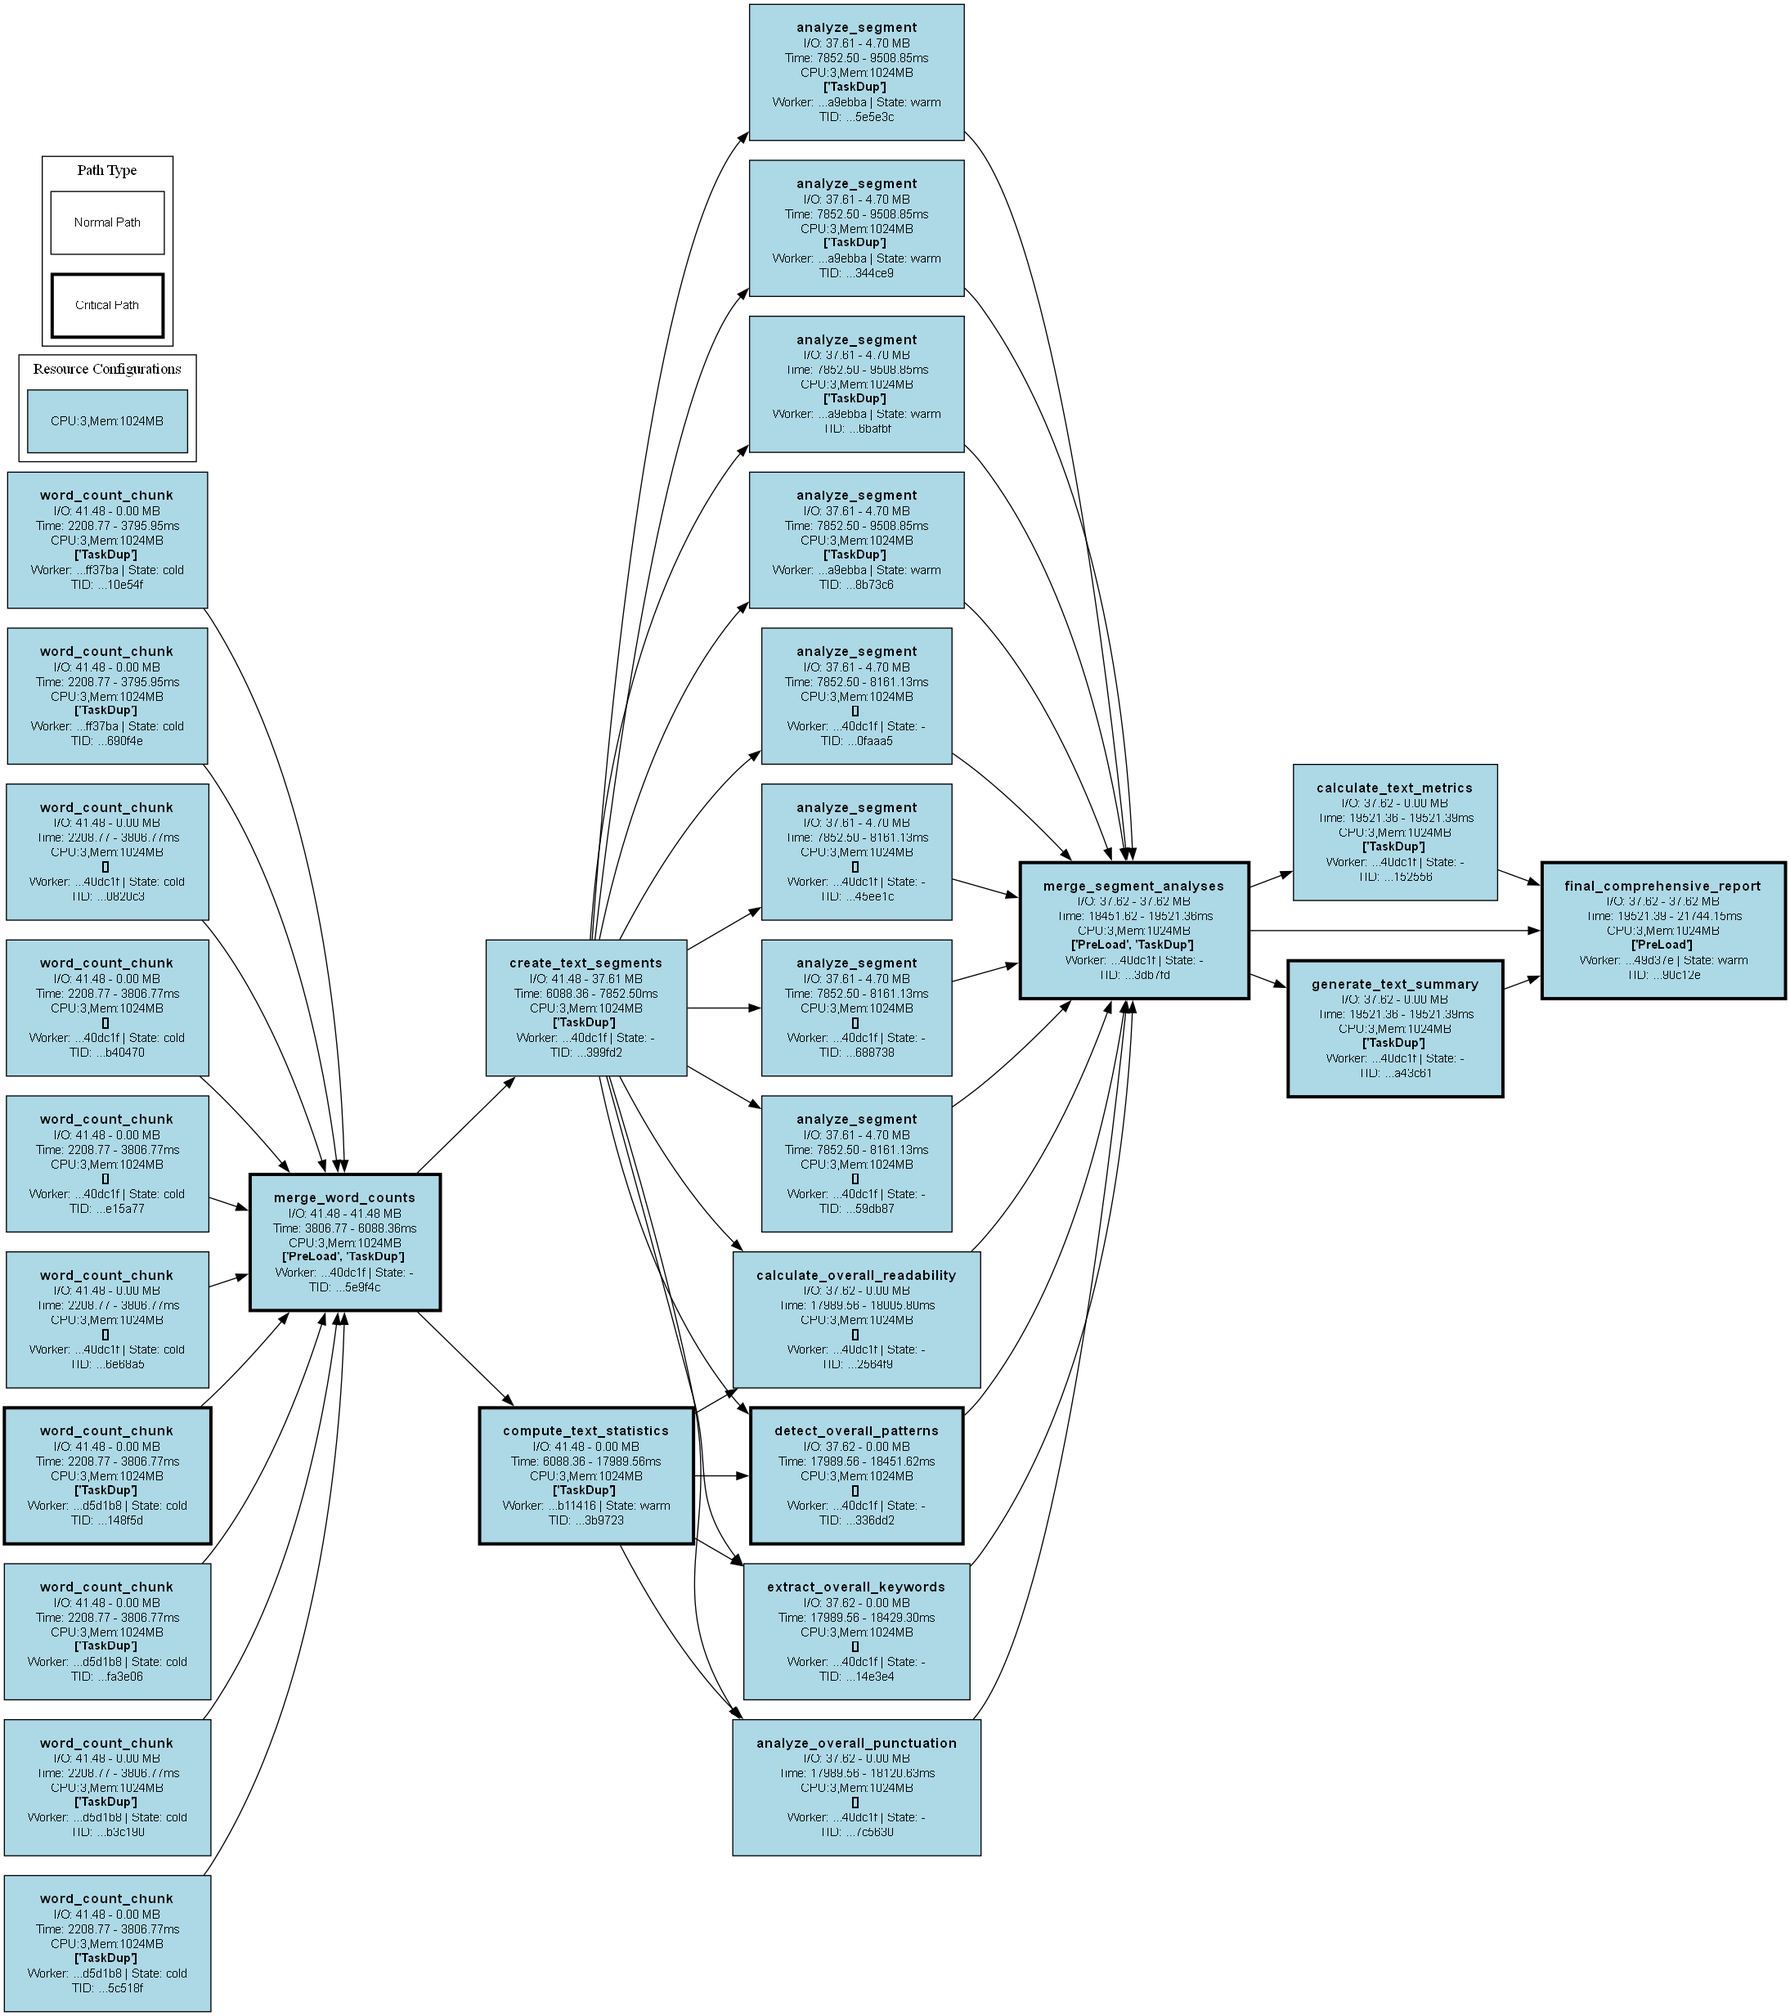
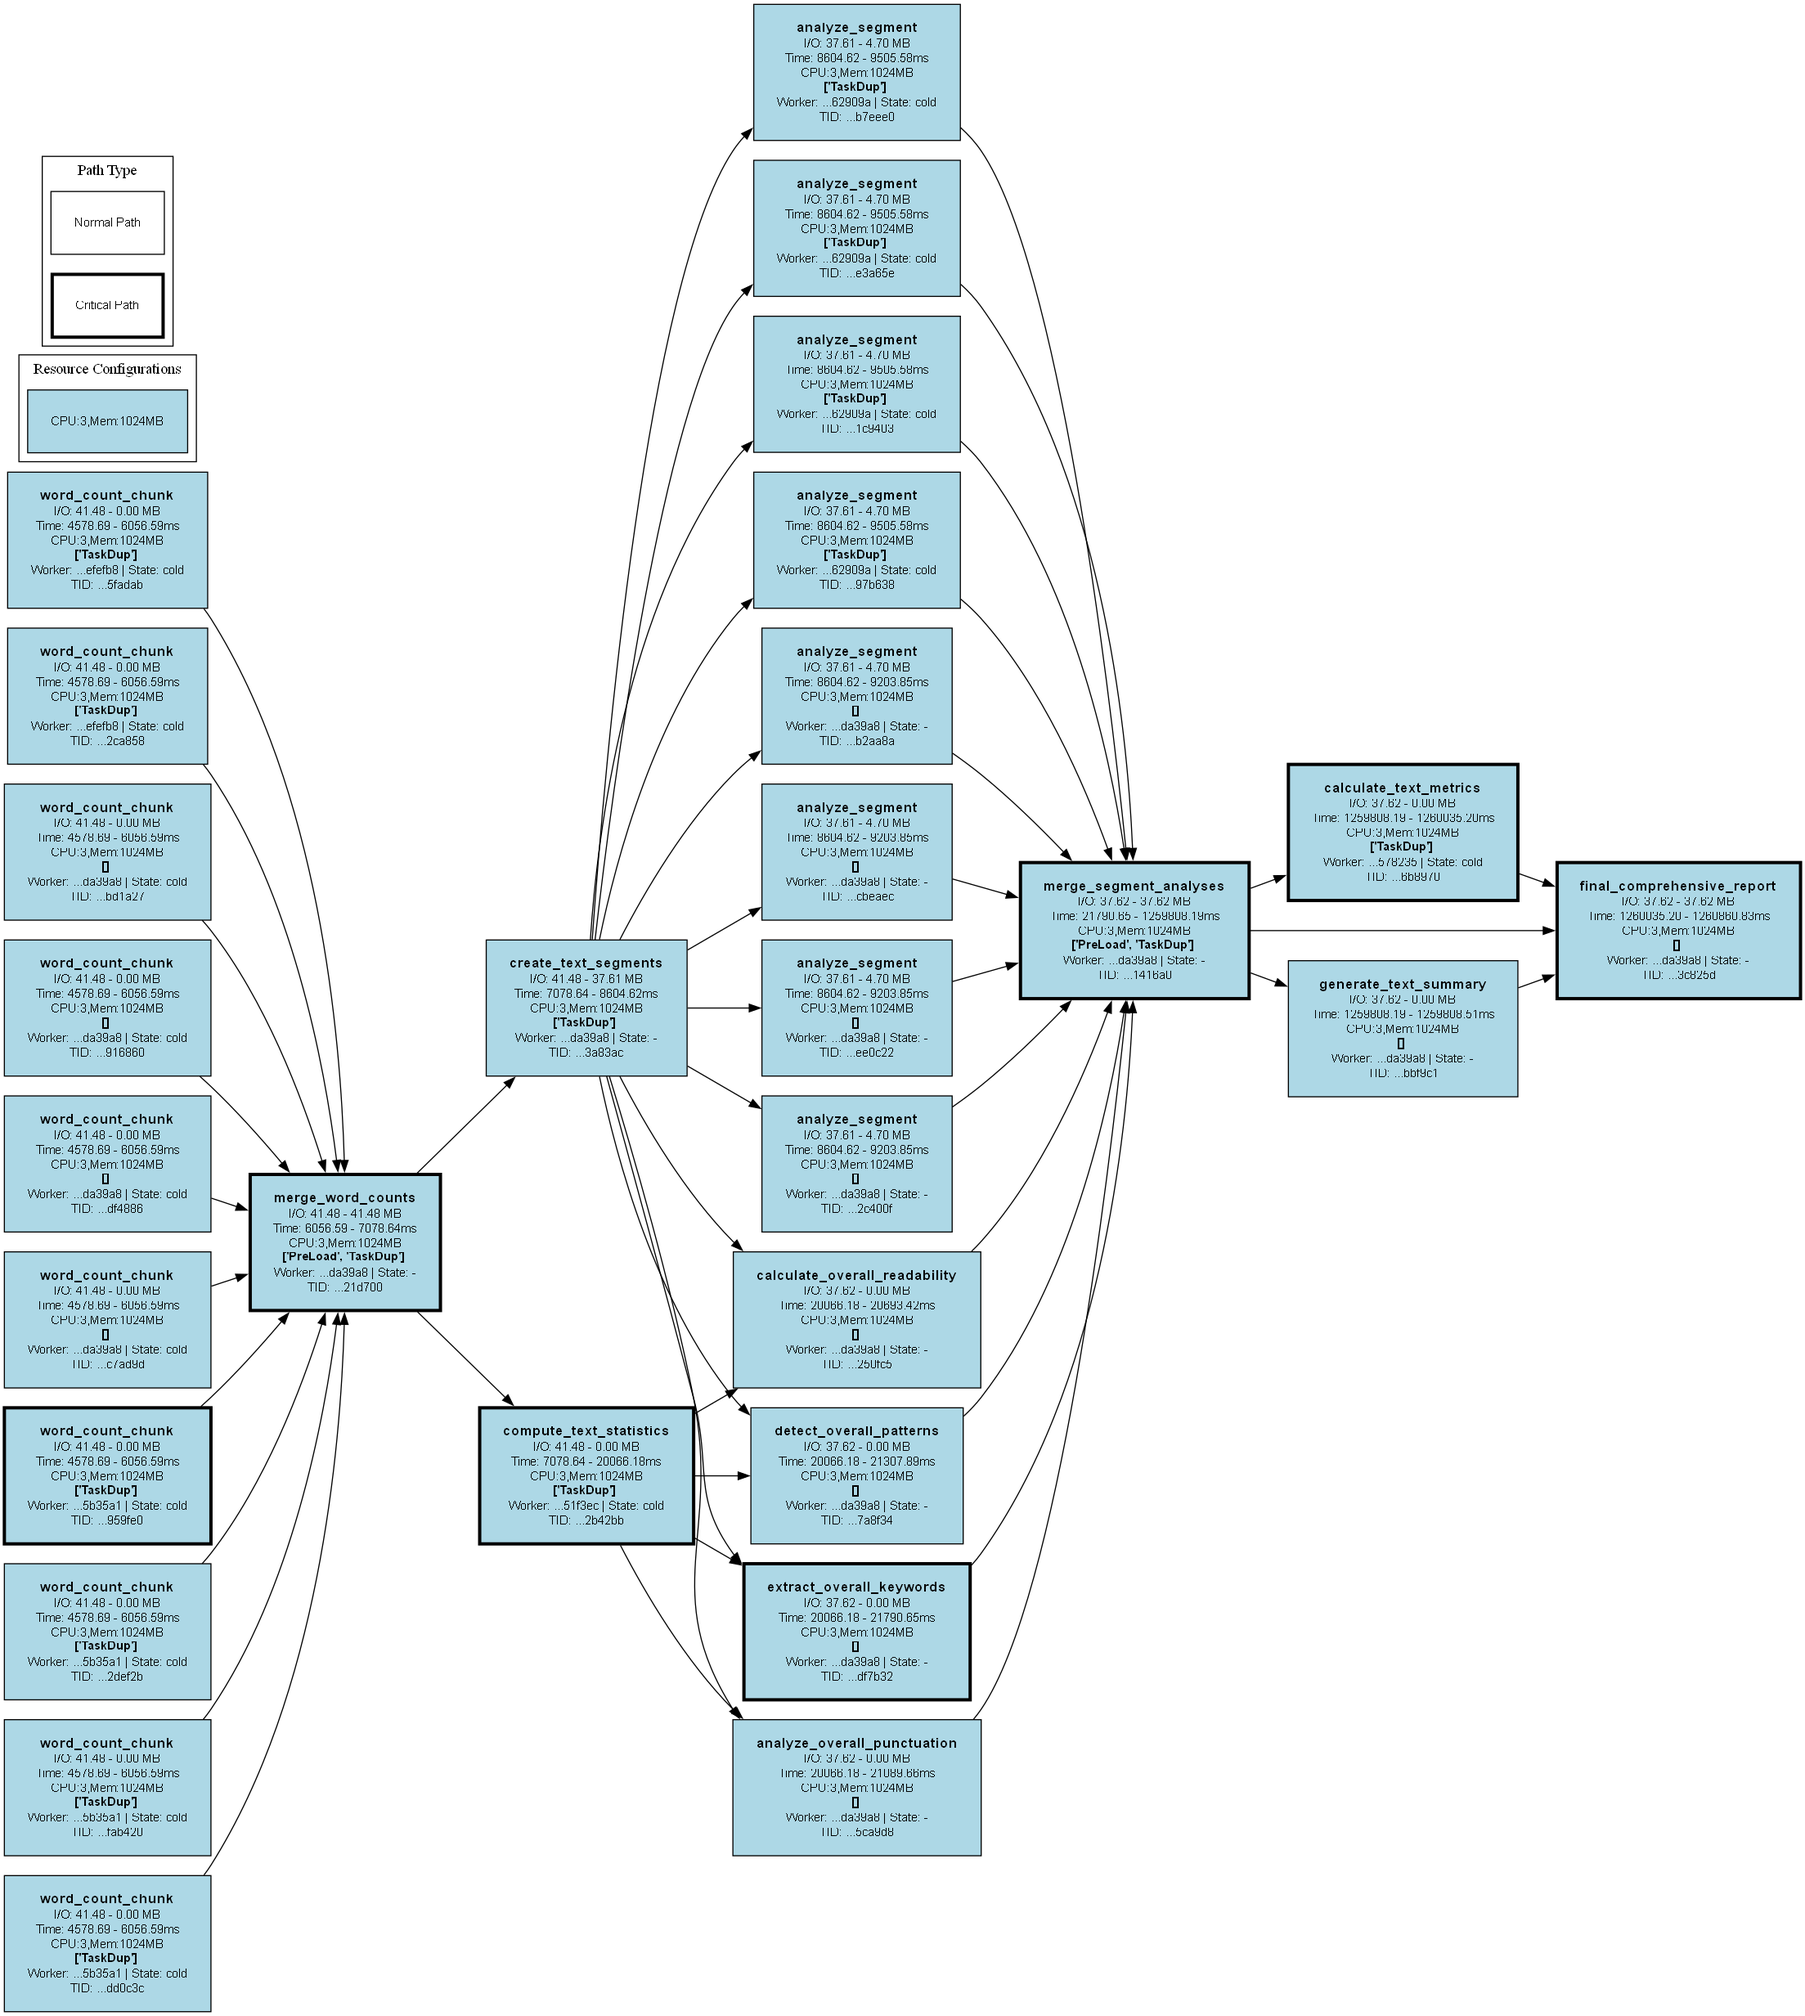
before trying fix for taskdup

diff --git a/src/docker_worker_handler/worker.py b/src/docker_worker_handler/worker.py
@@ -156,7 +156,9 @@ async def main():
 
                 logger.info(f"[TASK-DUP] {one_of_the_upsteam_tasks.id.get_full_id()} finished. Evaluating {len(main_task.upstream_nodes)} tasks for duplication for main task {main_task.id.get_full_id()}")
 
-                if dupping_locks[main_task.id.get_full_id()].locked(): return
+                if dupping_locks[main_task.id.get_full_id()].locked(): 
+                    logger.info(f"[TASK-DUP] {one_of_the_upsteam_tasks.id.get_full_id()} in progress. Giving up on dupping")
+                    return
 
                 async with dupping_locks[main_task.id.get_full_id()]:
                     finished_or_pending_duppable_tasks.setdefault(main_task.id.get_full_id(), set())

diff --git a/_examples/original/_run_experiments.py b/_examples/original/_run_experiments.py
@@ -7,13 +7,13 @@ import requests
 WORKFLOWS_PATHS = [
     # 'gemm.py',
     # 'tree_reduction.py',
-    'image_transformer.py',
-    # 'text_analysis.py',
+    # 'image_transformer.py',
+    'text_analysis.py',
 ]
 
-ITERATIONS_PER_ALGORITHM = 3
+ITERATIONS_PER_ALGORITHM = 5
 # ALGORITHMS = ['wukong', 'wukong-opt', 'uniform-opt', 'non-uniform-opt']
-ALGORITHMS = ['non-uniform-opt']
+ALGORITHMS = ['uniform-opt']
 # ALGORITHMS = ['uniform', 'uniform-opt', 'non-uniform-opt', 'wukong', 'wukong-opt']
 SLAS = ['50']
 # SLAS = ['50', '75', '90', '95', '99']

diff --git a/src/docker_workers_gateway/container_pool_executor.py b/src/docker_workers_gateway/container_pool_executor.py
@@ -54,7 +54,7 @@ class ContainerPoolExecutor:
         # helps debugging prewarm timings
         try:
             new_container_id = f"reused_{container_id}"
-            subprocess.run(["docker", "rename", container_id, new_container_id], check=True)
+            subprocess.run(["docker", "rename", container_id, new_container_id], check=True, stdout=subprocess.DEVNULL, stderr=subprocess.DEVNULL)
         except subprocess.CalledProcessError as e:
             pass # ignore, throws when renaming to the same name.....
 

diff --git a/TODO.md b/TODO.md
@@ -1,5 +1,6 @@
 - Dashboard
     [IMPLEMENTATION]
+    - when taskdup happens it blocks execution
     - try running montage again? and collecting metrics?
 
     - Dashboard
